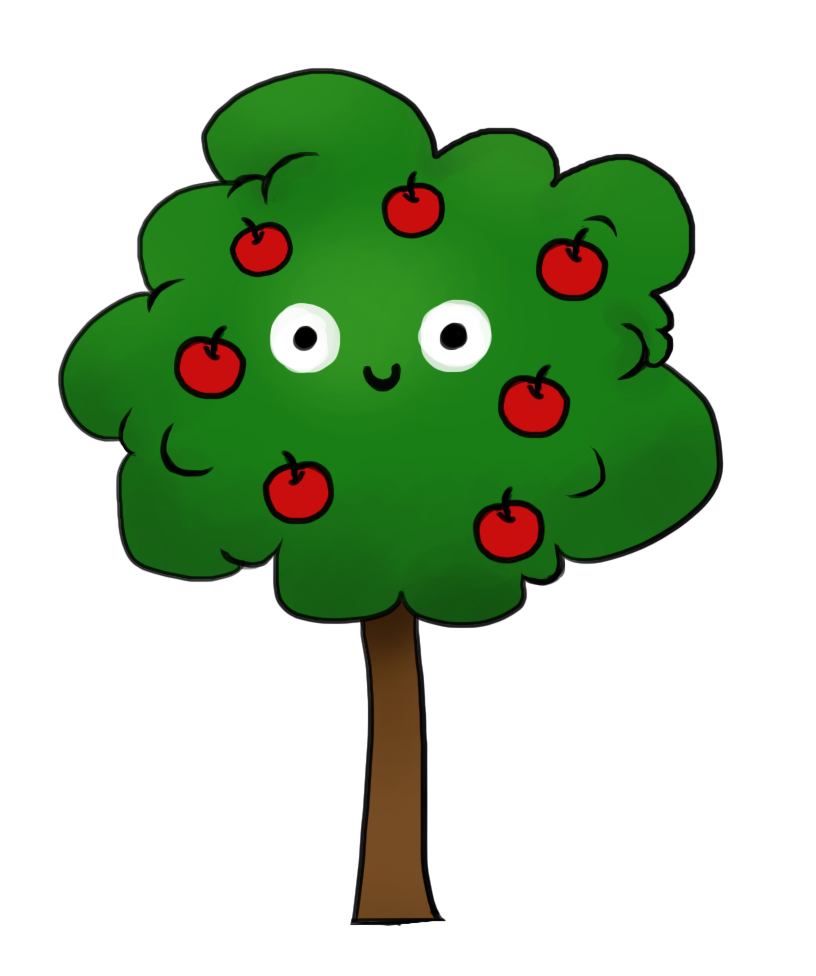
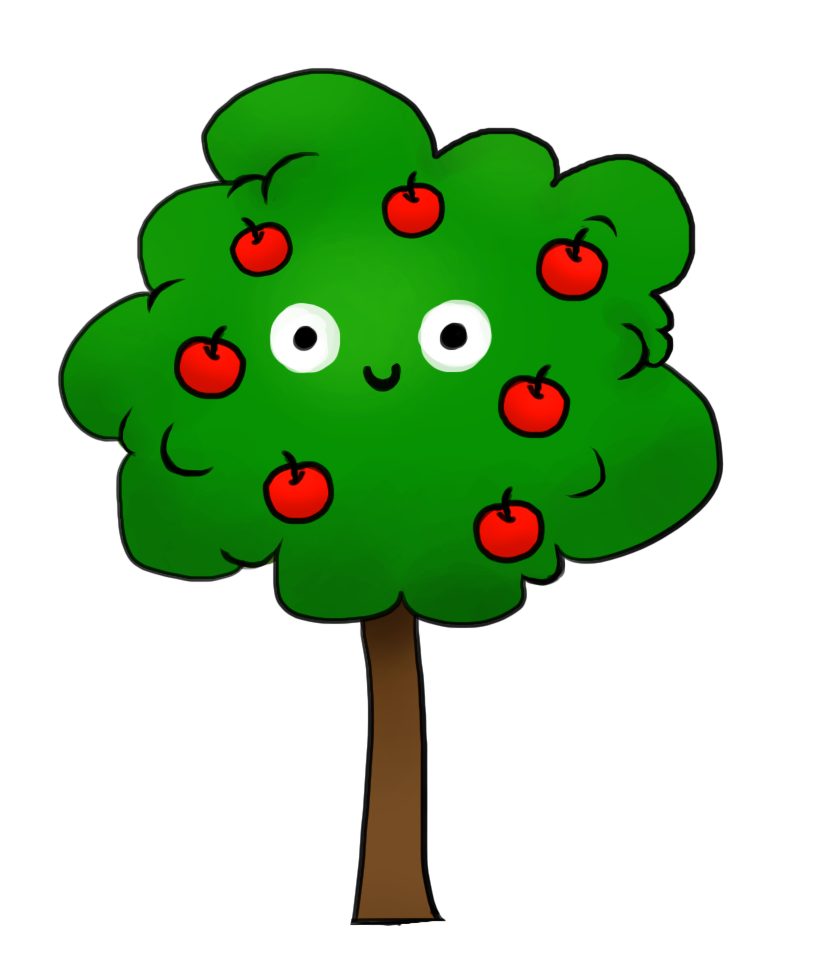
Added class for good tree, updated GoodTree Picture file

diff --git a/GoodTree.cs b/GoodTree.cs
@@ -1,0 +1,27 @@
+using GameMaker;
+using System;
+
+namespace Project1
+{
+    public class GoodTree : GameObject
+    {
+        public static readonly Sprite GoodTreeSprite = new Sprite(Properties.Resources.GoodTreeSpriteFileName, origin: IntVector.Zero);
+
+        public GoodTree(double x, double y) : base(x, y)
+        {
+            this.Init();
+        }
+
+        public GoodTree(Point location) : base(location)
+        {
+            this.Init();
+        }
+
+        private void Init()
+        {
+            this.Sprite = GoodTreeSprite;
+            this.Transform.XScale = .2;
+            this.Transform.YScale = .2;
+        }
+    }
+}
